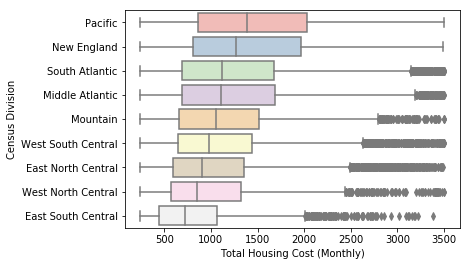
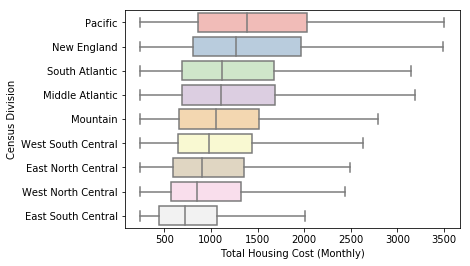
dont show outliers

diff --git a/ahs_kdeplots.py b/ahs_kdeplots.py
@@ -5,7 +5,7 @@ import numpy as np
 
 # data from: http://www2.census.gov/programs-surveys/ahs/2017/AHS%202017%20National%20PUF%20v3.0%20Flat%20CSV.zip?#
 fname = 'Data/ahs2017n.csv'
-#raw_data = pd.read_csv(fname)
+raw_data = pd.read_csv(fname)
 
 raw_data["TENURE"] = raw_data["TENURE"].replace({"'1'": 'Owned', "'2'": 'Rented', "'3'": 'Occupied without rent'})
 
@@ -38,6 +38,10 @@ df_owners = df_filtered_hcost[limit_owners]
 limit_renters = df_filtered_hcost["TENURE"] == 'Rented'
 df_renters = df_filtered_hcost[limit_renters]
 
+# initialize color definitions
+red = sns.color_palette("Reds")[-2]
+blue = sns.color_palette("Blues")[-2]
+
 # plot income vs. monthy housing costs
 f, ax = plt.subplots(figsize=(8, 8))
 ax = sns.kdeplot(df_owners["HINCP_monthly"], df_owners["TOTHCAMT"],
@@ -49,8 +53,6 @@ ax = sns.kdeplot(df_renters["HINCP_monthly"], df_renters["TOTHCAMT"],
 ax = sns.regplot(x="HINCP_monthly", y="TOTHCAMT", data=df_owners, color=red, scatter=False)
 ax = sns.regplot(x="HINCP_monthly", y="TOTHCAMT", data=df_renters, color=blue, scatter=False)
 
-red = sns.color_palette("Reds")[-2]
-blue = sns.color_palette("Blues")[-2]
 ax.text(0, 3500, "Renters", size=16, color=blue)
 ax.text(0, 3200, "Owners", size=16, color=red)
 ax.set(xlabel = 'Household Income (Monthly)', ylabel = 'Total Housing Cost (Monthly)')

diff --git a/ahs_boxplots.py b/ahs_boxplots.py
@@ -30,5 +30,5 @@ df_filtered_hcost = raw_data[limit_hcost]
 my_order = df_filtered_hcost.groupby(by=["DIVISION"])["TOTHCAMT"].median().sort_values(ascending = False).index
 
 # look at housing prices by census region
-ax = sns.boxplot(y = "DIVISION", x = "TOTHCAMT", data= df_filtered_hcost, palette="Pastel1", order = my_order)
+ax = sns.boxplot(y = "DIVISION", x = "TOTHCAMT", data= df_filtered_hcost, palette="Pastel1", order = my_order, fliersize=0)
 ax.set(xlabel = 'Total Housing Cost (Monthly)', ylabel = 'Census Division')

diff --git a/ahs_violins.py b/ahs_violins.py
@@ -5,7 +5,7 @@ import numpy as np
 
 # data from: http://www2.census.gov/programs-surveys/ahs/2017/AHS%202017%20National%20PUF%20v3.0%20Flat%20CSV.zip?#
 fname = 'Data/ahs2017n.csv'
-#raw_data = pd.read_csv(fname)
+raw_data = pd.read_csv(fname)
 
 raw_data["RODENT"] = raw_data["RODENT"].replace({"'1'": 'Daily', "'2'": 'Weekly', "'3'": 'Monthly', "'4'": 'A few times', "'5'": 'No signs'}) 
 raw_data["TENURE"] = raw_data["TENURE"].replace({"'1'": 'Owned', "'2'": 'Rented', "'3'": 'Occupied without rent'})
